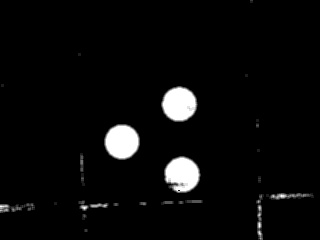
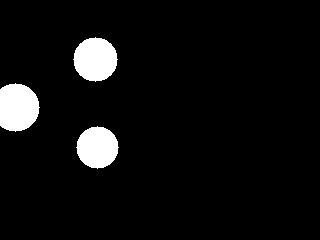
cleaned vision module

diff --git a/Quest 2/Assignment 2_cv3/modules/vision/vision_v1.py b/Quest 2/Assignment 2_cv3/modules/vision/vision_v1.py
@@ -1,7 +1,8 @@
+# import cv2.cv as cv
 import cv2
 import numpy, math
 import numpy as np
-from itertools import combinations, product
+from itertools import combinations
 
 def cv2_wait():
     key = cv2.waitKey(-1) & 0xFF
@@ -29,16 +30,15 @@ class vision_v1():
 
         resultimg = cv2.inRange(img, min_scal, max_scal)
 
-        # return resultimg
         return cv2.blur(resultimg, (3,3))
         
+       
     #Find Circle in a filtered image
     def findCircle(self,imgMat):
         '''
         Input: Black Whit Image
         Return: List of center position of found Circle
         '''
-
         img = imgMat
 
         # Hough algorithm parameters
@@ -59,6 +59,7 @@ class vision_v1():
     def in_range_bgr(self,img,bgr_low,bgr_high):
         return cv2.inRange(img, np.array(bgr_low), np.array(bgr_high))
 
+
     def filter_find_circle(self, image, bgr_low, bgr_high):
         """Filters image to black and white inbetween color range. 
         Returns circles found in black and white image"""
@@ -66,46 +67,21 @@ class vision_v1():
         blobs = self.findCircle(bw_image)
         return blobs, bw_image
 
-
     def cutout_paper(self, image, blueBlobs):
         """Masks paper out of the whole image by filling up the shape where the blueBlob was found"""
         # Prepare image
         gray = cv2.cvtColor(image, cv2.COLOR_BGR2GRAY)
-        canny = cv2.Canny(gray, 130, 255, 10)
-        mask = np.full(gray.shape, 255 ,dtype=np.uint8)     # Create mask
-        
-        
-        # # Draw Hough Lines
-        # lines = cv2.HoughLines(canny,1,np.pi/180,75)
-        # try:
-        #     len(lines)
-        # except:
-        #     return image
-        # for line in lines:
-        #     for rho,theta in line:
-        #         a = np.cos(theta)
-        #         b = np.sin(theta)
-        #         x0 = a*rho
-        #         y0 = b*rho
-        #         x1 = int(x0 + 1000*(-b))
-        #         y1 = int(y0 + 1000*(a))
-        #         x2 = int(x0 - 1000*(-b))
-        #         y2 = int(y0 - 1000*(a))
-
-        #         cv2.line(mask,(x1,y1),(x2,y2),0,2)
-        
-        # # Find contours of Hough lines
-        # contours = cv2.findContours(mask, cv2.RETR_TREE, cv2.CHAIN_APPROX_SIMPLE)
-        # contours = contours[0] if len(contours) == 2 else contours[1]
+        ret, thresh = cv2.threshold(gray, 160, 255, 0)
+        # Create mask
+        mask = np.full(gray.shape, 255, dtype=np.uint8)
 
         # Find contours of Hough lines
         contours, hierarchy = cv2.findContours(thresh, cv2.RETR_TREE, cv2.CHAIN_APPROX_SIMPLE)
         
-        # contours = contours[0] if len(contours) == 2 else contours[1]
         biggest_contour = 0
         mid_paper = blueBlobs[0][:2]
         for c, h in zip(contours, hierarchy[0]):
-            if h[3] == -1 and h[2] > 0:
+            if h[3] == -1 and h[2] > -1:
                 cv2.drawContours(mask, [c], -1, (0,255,0), 1)
                 if len(c) > biggest_contour:
                     mid_paper = np.mean(c, axis=0, dtype=int)
@@ -134,40 +110,6 @@ class vision_v1():
 
         return np.asarray(xyblobsList)
 
-    def find_in_bound_blobs(self, blobsList, image_dim):
-        in_bounds_blobs = []
-        for blobList in blobsList:
-            legal_blobs = []
-            for blob in blobList:
-                blob_dim = blob[:2]
-                # Blob out of bounds
-                if blob_dim[0] > image_dim[0] or blob_dim[1] > image_dim[1]:
-                    continue
-                # Legal blob
-                else:
-                    legal_blobs.append(blob)
-            # Append all legal blobs
-            in_bounds_blobs.append(np.asarray(legal_blobs))
-        return np.asarray(in_bounds_blobs)
-
-    def find_plausible_blobs(self, blobsList):
-        ps = list(product(*blobsList))
-        plausible_blobLists = []
-        for p in ps:
-            blue, green, red = p
-            coords = [blue[:2], green[:2], red[:2]]
-            center = self.calcMidLandmark(coords)
-            
-            DistFromCenter = self.calcDistanceFromCenter(coords, center)
-            std_DistanceFromCenter = np.std(DistFromCenter)
-
-            if std_DistanceFromCenter > max(DistFromCenter) * 0.2:
-                continue
-
-            else:
-                plausible_blobLists.append(p)
-        return plausible_blobLists
-
     # Proces image to detect color blobs
     def getBlobsData(self, image):
         '''
@@ -176,9 +118,7 @@ class vision_v1():
         '''
 
         # Filter blue circle
-        # blueBlobs, bw_image_blue = self.filter_find_circle(image, [70,0,0],[255,100,100])
         blueBlobs, bw_image_blue = self.filter_find_circle(image, [80,0,0],[255,100,100])
-        
 
         # Check wether blue circle was found
         blueLen = len(blueBlobs)
@@ -188,99 +128,25 @@ class vision_v1():
             image = self.cutout_paper(image, blueBlobs)
         
         # Filter for green blobs
-        # greenBlobs, bw_image_green = self.filter_find_circle(image, [0,70,0],[100,255,100])
         greenBlobs, bw_image_green = self.filter_find_circle(image, [0,80,0],[120,255,120])
         # Filter for red blobs
-        # redBlobs, bw_image_red = self.filter_find_circle(image, [0,0,170], [95,130,255])
         redBlobs, bw_image_red = self.filter_find_circle(image, [0,0,170], [100,130,255])
 
         ########## OPTIONAL ###############
         # Add all filtered images for total black/white image
         filter_image = bw_image_blue + bw_image_green + bw_image_red
 
-        # Check wether green and red circle was found
+        # Check whether green and red circle were found
         greenLen = len(greenBlobs)
         redLen = len(redBlobs)
 
-        print("Blue blobs", blueBlobs)
-        print("green blobs", greenBlobs)
-        print("red blobs", redBlobs)
-
         blobsList = [blueBlobs, greenBlobs, redBlobs]
         print("Full bloblist", blobsList)
-        # print(blobsList)
-        if blueLen == 0 or greenLen == 0 or redLen == 0:
-            xyblobsList = self.slice_coords(blobsList)
-            drawn_circles = self.drawCircles(blobsList)
-            return blueLen + greenLen + redLen, xyblobsList, filter_image, drawn_circles
 
-        # Get dimensions of picture and reverse them for ease of use (x, y)
-        image_dim = np.asarray(list(image.shape[:2])[::-1], dtype=float)
-
-        # Find all blobs in dimensions of picture
-        blobsList = self.find_in_bound_blobs(blobsList, image_dim)
-        # blobsList = np.asarray([np.asarray([np.asarray([121,  127,   22])]),
-
-        # np.asarray([np.asarray([195,  175,   21]), np.asarray([1,2,3])]),
-
-        # np.asarray([np.asarray([199,   83,   21])])])
-
-        # print("=================================================================")
-        # print(blobsList)
-
-        # print("=============================================================")
-
-        # Recalculate number of found blobs
-        blueLen = len(blobsList[0])
-        greenLen = len(blobsList[1])
-        redLen = len(blobsList[2])
-
-        # Check if there is a blob of each colour
-        if blueLen == 0 or greenLen == 0 or redLen == 0:
-            xyblobsList = self.slice_coords(blobsList)
-            drawn_circles = self.drawCircles(blobsList)
-            return blueLen + greenLen + redLen, xyblobsList, filter_image, drawn_circles
-
-        # Radius check for all blobs
-        n_blobs_per_colour = [len(blobList) for blobList in blobsList]
-        mean_blobs = np.mean(n_blobs_per_colour)
-        n_blobs = sum(n_blobs_per_colour)
-
-        print(mean_blobs)
-        print(n_blobs)
-        print(blueLen, greenLen, redLen)
-
-        print(min(blueLen, greenLen, redLen))
-        print(max(blueLen, greenLen, redLen))
-        print(3 > n_blobs > 7)
-        # Check combinations if there 4 or 5 blobs and each list contains at least 1 and at most 2 blobs
-        if mean_blobs != 1.0 and n_blobs > 3 and n_blobs < 7 and min(blueLen, greenLen, redLen) > 0 and max(blueLen, greenLen, redLen) < 4:
-            print("AVERAGE IS NOT EQUAL TO ONE. LOOKING FOR PLAUSIBLE BLOB COMBINATIONS")
-            plausible_blobLists = self.find_plausible_blobs(blobsList)
-                
-            if len(plausible_blobLists) == 1:
-                print("One plausible blob combination found")
-                blobsList = plausible_blobLists[0]
-                n_blobs = len(xyblobsList[0]) + len(xyblobsList[1]) + len(xyblobsList[2])
-                
-            else:
-                print("Too many or too little plausible blobs found")
-                return 0, np.asarray([[], [], []]), filter_image, filter_image
-
-        print(blobsList)
         xyblobsList = self.slice_coords(blobsList)
         drawn_circles = self.drawCircles(blobsList)
-        return n_blobs, xyblobsList, filter_image, drawn_circles
+        return blueLen + greenLen + redLen, xyblobsList, filter_image, drawn_circles
 
-    def get_correct_blobsList(self, blobsList):
-        lenList = [len(colour) for colour in blobsList]
-        if max(lenList) == min(lenList) == 1:
-            new_blobsList = []
-            for colour in blobsList:
-                new_blobsList.append(colour[0])
-            return 3, new_blobsList
-        return 0, []
-            
 
     def drawCircles(self,circle_data):
         if circle_data != []:
@@ -305,7 +171,7 @@ class vision_v1():
     def calcAvgBlobDistance(self, blobList):
         '''
         Input: [Pink, Blue, Orange]
-        Output: Avarege Distance in pixels
+        Output: Average Distance in pixels
         '''
 
         # Check if there are enough blobs
@@ -357,8 +223,7 @@ class vision_v1():
         center *= 0.0038
 
         # Return only horizontal angle
-        ####### !!!!!!!!!!!!!!!!!!!!!!!!!!!!!!!!!!!!!!!! ##################
-        # Goede dimensie gereturned?? Moet misschien center[1] zijn?????
+    
         return abs(center[0])
 
     # Find the Signature
@@ -367,13 +232,12 @@ class vision_v1():
         Input: [Pink, Blue, Orange]
         Output: Signature
         '''
-
         # Calculate relative position of blue for green and red respectively
         blue_green = blobList[0] - blobList[1]
         blue_red = blobList[0] - blobList[2]
 
         # Blue blob above both others
-        if blue_green[1] > 0 and blue_red[1] > 0 and blue_green[0] < 0 and blue_red[0] > 0:
+        if blue_green[1] < 0 and blue_red[1] < 0 and blue_green[0] > 0 and blue_red[0] < 0:
             return "Finish"
 
         # Green above and to left, red below and to left of blue
@@ -384,13 +248,28 @@ class vision_v1():
         if blue_green[0] < 0 and blue_red[0] < 0 and blue_green[1] < 0 and blue_red[1] > 0:
             return "Left"
 
+        # Blue blob under both others
+        if blue_green[1] > 0 and blue_red[1] > 0 and blue_green[0] < 0 and blue_red[0] > 0:
+            return "Back"
+
         # Unknown orientation of blobs
         return -1
         
+
+    def get_correct_blobsList(self, blobsList):
+        lenList = [len(colour) for colour in blobsList]
+        if max(lenList) == min(lenList) == 1:
+            new_blobsList = []
+            for colour in blobsList:
+                new_blobsList.append(colour[0])
+            return 3, new_blobsList
+        return 0, []
+
     def getInformation(self, coords):
         distance = self.calcAvgBlobDistance(coords)
         center = self.calcMidLandmark(coords)
         angle = self.calcAngleLandmark(center)
         signature = self.findSignature(coords)
         return distance, center, angle, signature
+
 

diff --git a/Quest 2/Assignment 2_cv3/modules/main/main_v1.py b/Quest 2/Assignment 2_cv3/modules/main/main_v1.py
@@ -1,3 +1,10 @@
+# self.globals.posProxy.goToPosture("Stand", 1)
+# self.globals.posProxy.goToPosture("StandInit", 1)
+# sonar = self.sonar.avg_sonar()
+# self.globals.motProxy.moveTo(0, 0, (-np.pi * 0.5))
+# self.globals.motProxy.rest()
+
+
 import cv2
 import numpy as np
 from naoqi import ALProxy
@@ -60,23 +67,19 @@ class main_v1:
         self.globals.setProxies()
         self.motion.init()
         
-        # self.globals.posProxy.goToPosture("StandInit", 1)
+        # Walk until wall
+        self.behaviour.walk_stop()
 
-        
-        # # Walk until wall
-        # self.behaviour.walk_stop()
+        print("Finish walk_stop")
 
-        # print("Finish walk_stop")
+        # Stand perpendicular to wall
+        self.behaviour.stand_perp()
 
-        # # Stand perpendicular to wall
-        # self.behaviour.stand_perp()
-
-        # print("Finish stand_perp")
+        print("Finish stand_perp")
 
         # Try to find blobs
         self.tools.cSubscribe()
         amount_of_blobs, coords = self.see_picture()
-        
 
         if amount_of_blobs == 3:
             distance, center, angle, signature = self.vision.getInformation(coords)
@@ -85,28 +88,13 @@ class main_v1:
         else:
             print("No blobs")
 
-
         self.globals.motProxy.rest()
         
 
 
 
 
-        # self.globals.motProxy.getHeadPos()
         
-        # self.globals.posProxy.goToPosture("Stand", 1)
-        # sonar = self.sonar.avg_sonar()
-
-
-
-        # self.globals.posProxy.goToPosture("StandInit", 1)
-
-        # self.globals.motProxy.moveTo(0, 0, (-np.pi * 0.5))
-
-
-    
- 
-        # self.globals.motProxy.rest()
 
         
 
